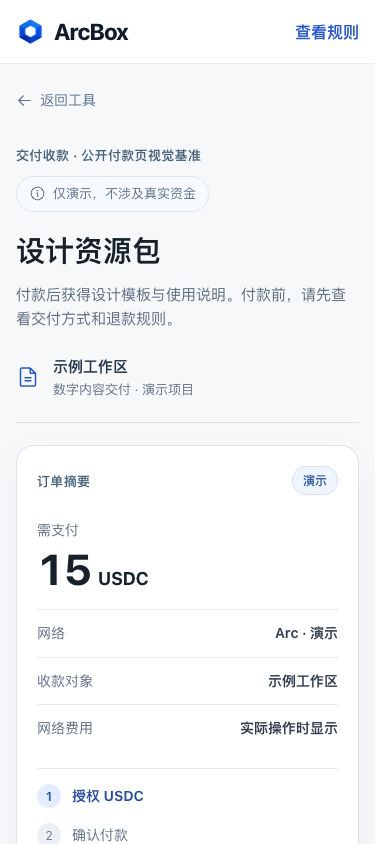
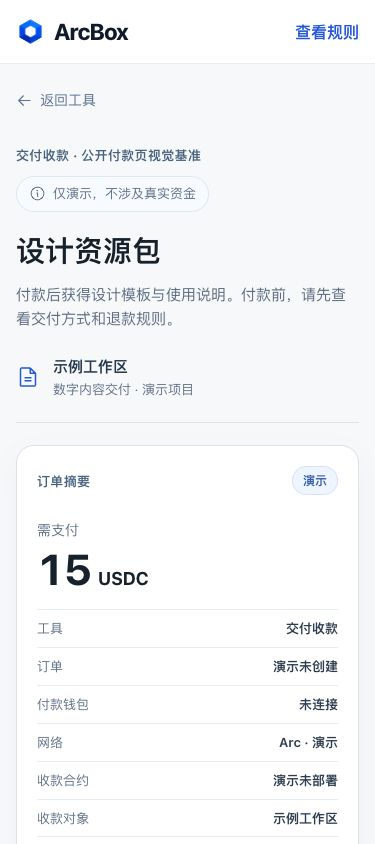
fix(m1-a): align money copy and payment summary with rules

Changed region(s): [[0.6453, 0.7393, 0.9093, 0.9858], [0.088, 0.7393, 0.3813, 1.0]]

diff --git a/design/m1-a/src/App.jsx b/design/m1-a/src/App.jsx
@@ -30,7 +30,7 @@ const TOOLS = [
     english: "Deliver",
     icon: FileTextIcon,
     tone: "deliver",
-    description: "我想发送文件或内容，对方付款后自动获取。",
+    description: "我想发送文件或内容，付款后按规则开放访问。",
     example: "卖一份模板，付款后开放文件。",
     keywords: "文件 内容 模板 出售 下载 交付 收款",
   },
@@ -40,7 +40,7 @@ const TOOLS = [
     english: "Group",
     icon: UsersThreeIcon,
     tone: "group",
-    description: "我想发起一个成团活动，达到人数后再收款。",
+    description: "我想先付款占席，截止时达标成团，否则可退本金。",
     example: "开一场工作坊，人数不够就退款。",
     keywords: "开课 团购 工作坊 报名 人数 退款",
   },
@@ -50,7 +50,7 @@ const TOOLS = [
     english: "Split",
     icon: ChartPieSliceIcon,
     tone: "split",
-    description: "我想与伙伴一起收款，按设定比例自动分账。",
+    description: "我想把可分配收入按固定比例分给伙伴。",
     example: "三位合作者按固定比例领取收入。",
     keywords: "分钱 分账 合作 比例 收入 领取",
   },
@@ -431,7 +431,7 @@ function RuleSummary({ name, price, tool }) {
         </div>
         <div>
           <dt>退款规则</dt>
-          <dd>按发布时的规则执行</dd>
+          <dd>{tool.id === "deliver" ? "示例：付款后 24 小时" : "依工具规则确认"}</dd>
         </div>
         <div>
           <dt>网络费用</dt>
@@ -770,8 +770,24 @@ function Payment({ onNavigate, onNotice }) {
             </div>
             <dl>
               <div>
+                <dt>工具</dt>
+                <dd>交付收款</dd>
+              </div>
+              <div>
+                <dt>订单</dt>
+                <dd>演示未创建</dd>
+              </div>
+              <div>
+                <dt>付款钱包</dt>
+                <dd>未连接</dd>
+              </div>
+              <div>
                 <dt>网络</dt>
                 <dd>Arc · 演示</dd>
+              </div>
+              <div>
+                <dt>收款合约</dt>
+                <dd>演示未部署</dd>
               </div>
               <div>
                 <dt>收款对象</dt>

diff --git a/design/m1-a/src/styles.css b/design/m1-a/src/styles.css
@@ -717,6 +717,10 @@ button {
   font-size: 14px;
   line-height: 1.45;
 }
+.payment-panel dl > div {
+  padding: 9px 0;
+  font-size: 13px;
+}
 .rule-summary dt,
 .payment-panel dt {
   color: #617286;

diff --git a/design/m1-a/design-qa.md b/design/m1-a/design-qa.md
@@ -12,7 +12,7 @@
 
 No actionable P0, P1, or P2 differences remain for the M1-A visual-baseline scope.
 
-- **Typography and content:** system Latin/CJK sans, large task-led heading, 16 px body baseline and readable Chinese tool sentences match the selected hierarchy. The prototype omits unsupported live claims and labels every money-related sample as a demo.
+- **Typography and content:** system Latin/CJK sans, large task-led heading, 16 px body baseline and readable Chinese tool sentences match the selected hierarchy. Funds-related task sentences follow the repository tool rules where the generated mock was imprecise; the prototype omits unsupported live claims and labels every money-related sample as a demo.
 - **Spacing and layout:** final desktop grid starts at y=424, with row heights 238/277 px and footer start y=940; these align to the normalized source. Search, chips, tool rows and button placement retain the source's open, divider-led structure rather than adding nested cards.
 - **Color and imagery:** canvas/surface/text/accent use the repository tokens. The generated standalone ArcBox mark is used as a PNG asset; standard UI symbols use one Phosphor icon family. Tool icon colors intentionally follow `docs/03-DESIGN-SYSTEM.md` where the generated mock assigned different colors. No illustration, fake chart, client logo, CSS art, or screenshot-as-page is used.
 - **Contrast and touch:** normal-text foregrounds on white were darkened to at least 4.5:1; key small-text color `#617286` is about 4.9:1 on white. Decorative tool-icon colors remain above 3:1. Main mobile actions and the wallet button have at least 44 px height; focus outlines are visible. The [W3C WCAG 2.2 contrast criterion](https://www.w3.org/WAI/WCAG22/Understanding/contrast-minimum) is used as the target, not claimed as a full accessibility audit.
@@ -25,6 +25,7 @@ No actionable P0, P1, or P2 differences remain for the M1-A visual-baseline scop
 2. **P2 — mobile payment hierarchy:** the first 375 px capture placed the amount panel below the detailed rules, so the first viewport did not show the amount. The public payment header was simplified and the amount panel moved between the product introduction and detailed rules at narrow widths. The final [mobile payment capture](screenshots/payment-375.png) shows the amount in the first viewport.
 3. **P2 — small-text contrast and tap targets:** initial gray helper text measured below the ordinary-text contrast target and some mobile main buttons were under 44 px. The final palette and control sizes were corrected; the final desktop and mobile captures show the darker secondary copy and usable buttons.
 4. **P1 — missing receipt layout:** the first payment interaction ended in a small status message. It now opens a full [receipt visual state](screenshots/receipt-1440.png) with amount, payer/transaction fields, rule version and next action, all explicitly marked as not a real payment. [Mobile receipt](screenshots/receipt-375.png) was also checked.
+5. **P1 — misleading money copy and incomplete payment summary:** the generated mock implied Group collects only after reaching the threshold and did not explain that Split distributes eligible revenue. The implementation now says buyers pay for a seat before the deadline and may reclaim principal if the group fails; Split copy describes distributable income. The payment panel visibly reserves positions for tool, order, payer wallet, network, receiving contract, recipient and network fee. The final [payment desktop](screenshots/payment-1440.png) and [payment mobile](screenshots/payment-375.png) captures show these fields without inventing addresses or a successful transaction.
 
 ## Open questions and scope
 

diff --git a/docs/validation/M1-A-STATUS.md b/docs/validation/M1-A-STATUS.md
@@ -6,6 +6,8 @@
 
 [选中原图](../../design/m1-a/references/home-selected.png)是首页布局真值：中心任务标题、搜索与场景词、六工具 3×2 目录、细分隔线和明确的“预览”状态。实现沿用 [视觉系统](../03-DESIGN-SYSTEM.md)的浅色 canvas、蓝色主动作、实底资金规则、系统 Latin/CJK 字体和最小阴影。原图的部分工具图标色与既有 token 不同，原型依照既有 token 使用 Deliver 蓝、Group 紫、Split 青、Attend 橙、Milestones 靛、Rewards 绿。
 
+原图中“达到人数后再收款”等句子只作为视觉占位，不改变既有资金规则：成团是先付款占席、截止时判定，失败者有本金退款权；分账只处理可分配收入。付款视觉摘要已留出工具、订单、付款钱包、网络、收款合约、收款方与网络费用位置，但演示不会填入虚构的链上地址或回执。
+
 | 基准页面 | 对应规格 | 桌面 1440 | 平板 768 | 手机 375 |
 |---|---|---|---|---|
 | 首页及工具选择 | P01 | [截图](../../design/m1-a/screenshots/home-1440.png) | [截图](../../design/m1-a/screenshots/home-768.png) | [截图](../../design/m1-a/screenshots/home-375.png) |

diff --git a/design/m1-a/README.md b/design/m1-a/README.md
@@ -20,6 +20,7 @@
 - 选中图中的个别工具图标色与仓库规范不同；实现以已记录的工具识别色为准：Deliver 蓝、Group 紫、Split 青、Attend 橙、Milestones 靛、Rewards 绿。
 - 向导采用 640–720 px 表单主区与约 320 px 规则摘要；付款页去掉工作区导航，金额与演示动作在手机首屏靠前；工作区先展示“待你处理”，不虚构平台收入。
 - 付款、授权、凭证三种含义分开。演示凭证不展示虚构交易哈希、已付款权益或真实收款地址。
+- 生成图中“达到人数后再收款”等资金句子不作为业务规则；按工具规格将成团改为先付款占席、截止时判定，不成团可退本金，并把分账描述为只分可分配收入。付款摘要预留工具、订单、付款钱包、网络、收款合约、收款方和费用字段。
 
 ## 验证与交接
 
